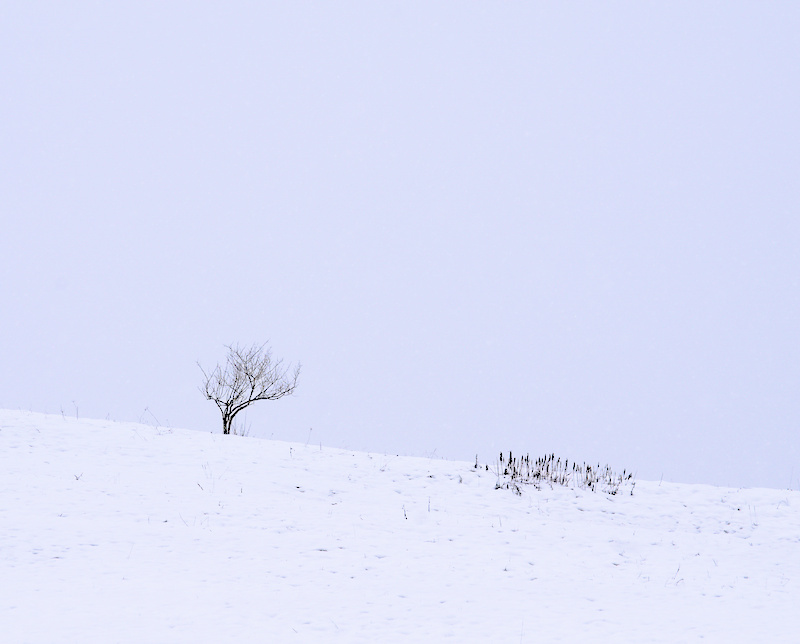
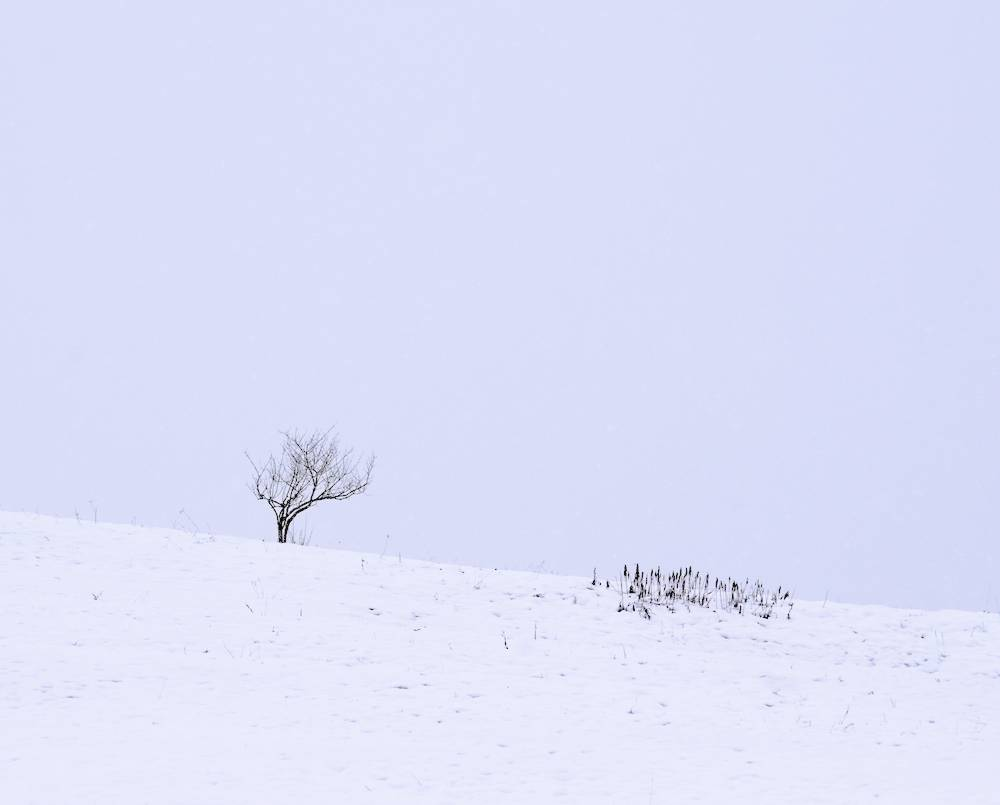
new album + better images resolution

Changed region(s): [[0.5938, 0.6832, 0.7812, 0.7764], [0.25, 0.528, 0.375, 0.6832]]

diff --git a/docs/posts/first-impressions/index.html b/docs/posts/first-impressions/index.html
@@ -4,7 +4,7 @@
 <head>
     <meta charset="utf-8">
     <meta name="viewport" content="width=device-width, initial-scale=1, shrink-to-fit=no">
-    <title> Isolation - Nejc Ilenic Photography </title>
+    <title> First impressions - Nejc Ilenic Photography </title>
     <meta name="HandheldFriendly" content="True">
     <meta name="MobileOptimized" content="320">
     <meta name="referrer" content="no-referrer">
@@ -12,18 +12,18 @@
     <meta property="og:site_name" content="Nejc Ilenic Photography" />
     <meta property="og:locale" content="en_US" />
     <meta property="og:type" content="article" />
-    <meta property="og:url" content="https://ilenic.photos/posts/isolation/" />
-    <meta property="og:title" content="Isolation" />
+    <meta property="og:url" content="https://ilenic.photos/posts/first-impressions/" />
+    <meta property="og:title" content="First impressions" />
     <meta property="og:image" content="https://ilenic.photos/" />
     <meta property="og:description" content="" />
 
     <meta name="twitter:card" content="summary_large_image" />
     
-    <meta name="twitter:title" content="Isolation" />
+    <meta name="twitter:title" content="First impressions" />
     <meta name="twitter:description" content="" />
     <meta name="twitter:image" content="https://ilenic.photos/" />
 
-    <link rel="canonical" href="https://ilenic.photos/posts/isolation/">
+    <link rel="canonical" href="https://ilenic.photos/posts/first-impressions/">
 
     <link rel="stylesheet" href="https://cdnjs.cloudflare.com/ajax/libs/twitter-bootstrap/4.5.2/css/bootstrap.min.css" integrity="sha512-MoRNloxbStBcD8z3M/2BmnT+rg4IsMxPkXaGh2zD6LGNNFE80W3onsAhRcMAMrSoyWL9xD7Ert0men7vR8LUZg==" crossorigin="anonymous" />
 
@@ -83,30 +83,12 @@
         <div class="container">
             <div class="row justify-content-center">
                 <div class="col-sm-12 col-lg-8">
-                    <h1 class="mx-0 mx-md-4">Isolation</h1>
+                    <h1 class="mx-0 mx-md-4">First impressions</h1>
                     <div class="markdown">
                         
-    <figure class="mt-xl">
-    <img src="https://ilenic.photos/images/isolation/DSC2624.jpg" width="90%"/> <figcaption>
-            <h4>Kriška gora, October 9th 2020</h4>
-        </figcaption>
-</figure>
-
-<figure class="mt-xxl">
-    <img src="https://ilenic.photos/images/isolation/DSC02385.jpg" width="60%"/> <figcaption>
-            <h4>Sovatna, August 25th 2020</h4>
-        </figcaption>
-</figure>
-
-<figure class="mt-xxl">
-    <img src="https://ilenic.photos/images/isolation/DSC02290.jpg" width="60%"/> <figcaption>
-            <h4>Sračja dolina, August 11th 2020</h4>
-        </figcaption>
-</figure>
-
-<figure class="mt-xxl mb-xl">
-    <img src="https://ilenic.photos/images/isolation/DSC02226.jpg" width="90%"/> <figcaption>
-            <h4>Mirna gora, July 31st 2020</h4>
+    <figure class="mt-xl mb-xl">
+    <img src="https://ilenic.photos/images/first-impressions/DSC3121.jpg" width="90%"/> <figcaption>
+            <h4> Mærradalen, May 13th 2021</h4>
         </figcaption>
 </figure>
 

diff --git a/docs/posts/until-next-time/index.html b/docs/posts/until-next-time/index.html
@@ -87,25 +87,25 @@
                     <div class="markdown">
                         
     <figure class="mt-xl">
-    <img src="https://ilenic.photos/images/until-next-time/DSC2771.jpg" width="100%"/> <figcaption>
+    <img src="https://ilenic.photos/images/until-next-time/DSC2771.jpg" width="90%"/> <figcaption>
             <h4>Črnomelj, February 2nd 2021</h4>
         </figcaption>
 </figure>
 
 <figure class="mt-xxl">
-    <img src="https://ilenic.photos/images/until-next-time/DSC2688.jpg" width="100%"/> <figcaption>
+    <img src="https://ilenic.photos/images/until-next-time/DSC2688.jpg" width="90%"/> <figcaption>
             <h4>Logatec, January 8th 2021</h4>
         </figcaption>
 </figure>
 
 <figure class="mt-xxl">
-    <img src="https://ilenic.photos/images/until-next-time/DSC2691.jpg" width="100%"/> <figcaption>
+    <img src="https://ilenic.photos/images/until-next-time/DSC2691.jpg" width="90%"/> <figcaption>
             <h4>Logatec, January 8th 2021</h4>
         </figcaption>
 </figure>
 
 <figure class="mt-xxl mb-xl">
-    <img src="https://ilenic.photos/images/until-next-time/DSC2668.jpg" width="100%"/> <figcaption>
+    <img src="https://ilenic.photos/images/until-next-time/DSC2668.jpg" width="90%"/> <figcaption>
             <h4>Rašica, January 7th 2021</h4>
         </figcaption>
 </figure>

diff --git a/docs/index.html b/docs/index.html
@@ -85,8 +85,12 @@
     <div class="row justify-content-center">
       <div class="col-sm-12 col-lg-8">
         <div class="container mt-sm mb-xl">
-
           <div class="row">
+
+            <div class="col-sm pb-sm">
+              <a class="thumbnail" href="https://ilenic.photos/posts/first-impressions"><img src="https://ilenic.photos/images/first-impressions.jpg"></a>
+              <p>First impressions</p>
+            </div>
             <div class="col-sm pb-sm">
               <a class="thumbnail" href="https://ilenic.photos/posts/until-next-time"><img src="https://ilenic.photos/images/until-next-time.jpg"></a>
               <p>Until next time</p>
@@ -95,8 +99,8 @@
               <a class="thumbnail" href="https://ilenic.photos/posts/isolation"><img src="https://ilenic.photos/images/isolation.jpg"></a>
               <p>Isolation</p>
             </div>
-          </div>
 
+          </div>
         </div>
       </div>
     </div>

diff --git a/docs/posts/index.html b/docs/posts/index.html
@@ -95,6 +95,10 @@
                         <ul>
                             
                                 <li>
+                                    <a href="https://ilenic.photos/posts/first-impressions/"><span>First impressions</span></a>
+                                </li>
+                            
+                                <li>
                                     <a href="https://ilenic.photos/posts/isolation/"><span>Isolation</span></a>
                                 </li>
                             

diff --git a/content/posts/until-next-time.md b/content/posts/until-next-time.md
@@ -4,10 +4,10 @@ date: "2021-01-08"
 draft: false
 ---
 
-{{< figure src="/images/until-next-time/DSC2771.jpg" title="Črnomelj, February 2nd 2021" width="100%" class="mt-xl">}}
+{{< figure src="/images/until-next-time/DSC2771.jpg" title="Črnomelj, February 2nd 2021" width="90%" class="mt-xl">}}
 
-{{< figure src="/images/until-next-time/DSC2688.jpg" title="Logatec, January 8th 2021" width="100%" class="mt-xxl">}}
+{{< figure src="/images/until-next-time/DSC2688.jpg" title="Logatec, January 8th 2021" width="90%" class="mt-xxl">}}
 
-{{< figure src="/images/until-next-time/DSC2691.jpg" title="Logatec, January 8th 2021" width="100%" class="mt-xxl">}}
+{{< figure src="/images/until-next-time/DSC2691.jpg" title="Logatec, January 8th 2021" width="90%" class="mt-xxl">}}
 
-{{< figure src="/images/until-next-time/DSC2668.jpg" title="Rašica, January 7th 2021" width="100%" class="mt-xxl mb-xl">}}
+{{< figure src="/images/until-next-time/DSC2668.jpg" title="Rašica, January 7th 2021" width="90%" class="mt-xxl mb-xl">}}

diff --git a/content/posts/isolation.md b/content/posts/isolation.md
@@ -4,10 +4,10 @@ date: "2020-31-12"
 draft: false
 ---
 
-{{< figure src="/images/isolation/DSC2624.jpg" title="Kriška gora, October 9th 2020" width="100%" class="mt-xl">}}
+{{< figure src="/images/isolation/DSC2624.jpg" title="Kriška gora, October 9th 2020" width="90%" class="mt-xl">}}
 
-{{< figure src="/images/isolation/DSC02385.jpg" title="Sovatna, August 25th 2020" width="70%" class="mt-xxl">}}
+{{< figure src="/images/isolation/DSC02385.jpg" title="Sovatna, August 25th 2020" width="60%" class="mt-xxl">}}
 
-{{< figure src="/images/isolation/DSC02290.jpg" title="Sračja dolina, August 11th 2020" width="70%" class="mt-xxl">}}
+{{< figure src="/images/isolation/DSC02290.jpg" title="Sračja dolina, August 11th 2020" width="60%" class="mt-xxl">}}
 
-{{< figure src="/images/isolation/DSC02226.jpg" title="Mirna gora, July 31st 2020" width="100%" class="mt-xxl mb-xl">}}
+{{< figure src="/images/isolation/DSC02226.jpg" title="Mirna gora, July 31st 2020" width="90%" class="mt-xxl mb-xl">}}

diff --git a/content/posts/first-impressions.md b/content/posts/first-impressions.md
@@ -1,0 +1,7 @@
+---
+title: "First impressions"
+date: "2021-14-05"
+draft: false
+---
+
+{{< figure src="/images/first-impressions/DSC3121.jpg" title=" Mærradalen, May 13th 2021" width="90%" class="mt-xl mb-xl">}}
